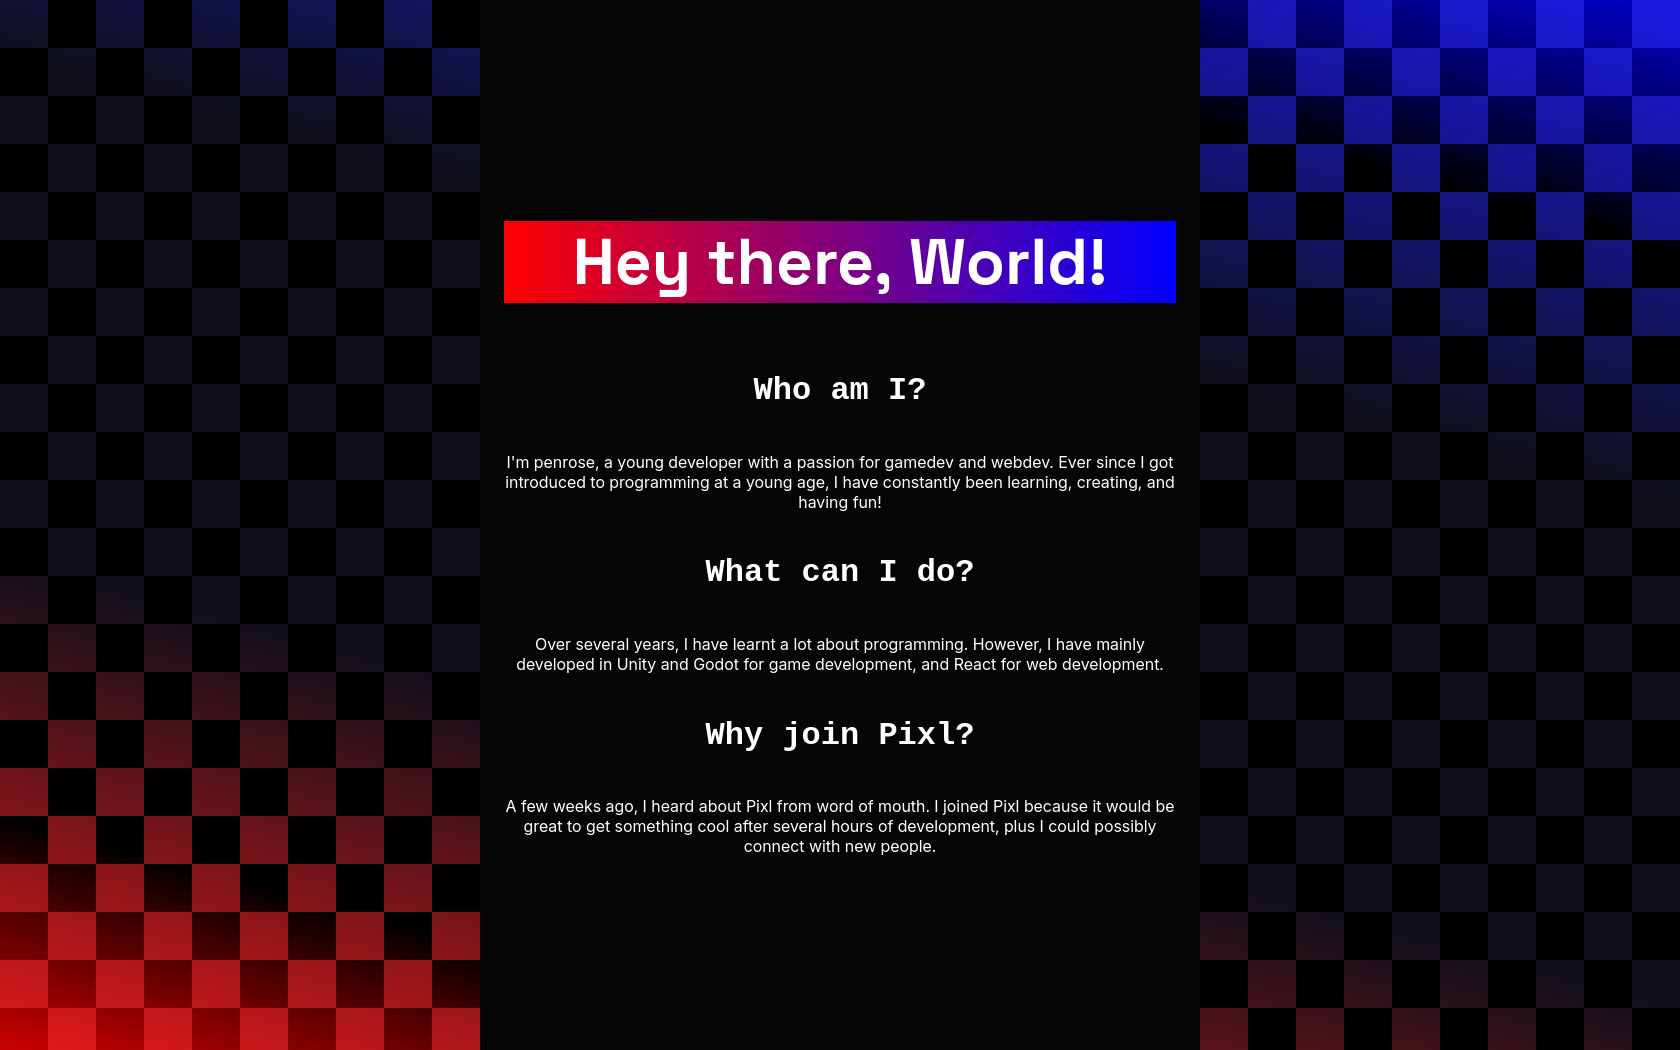
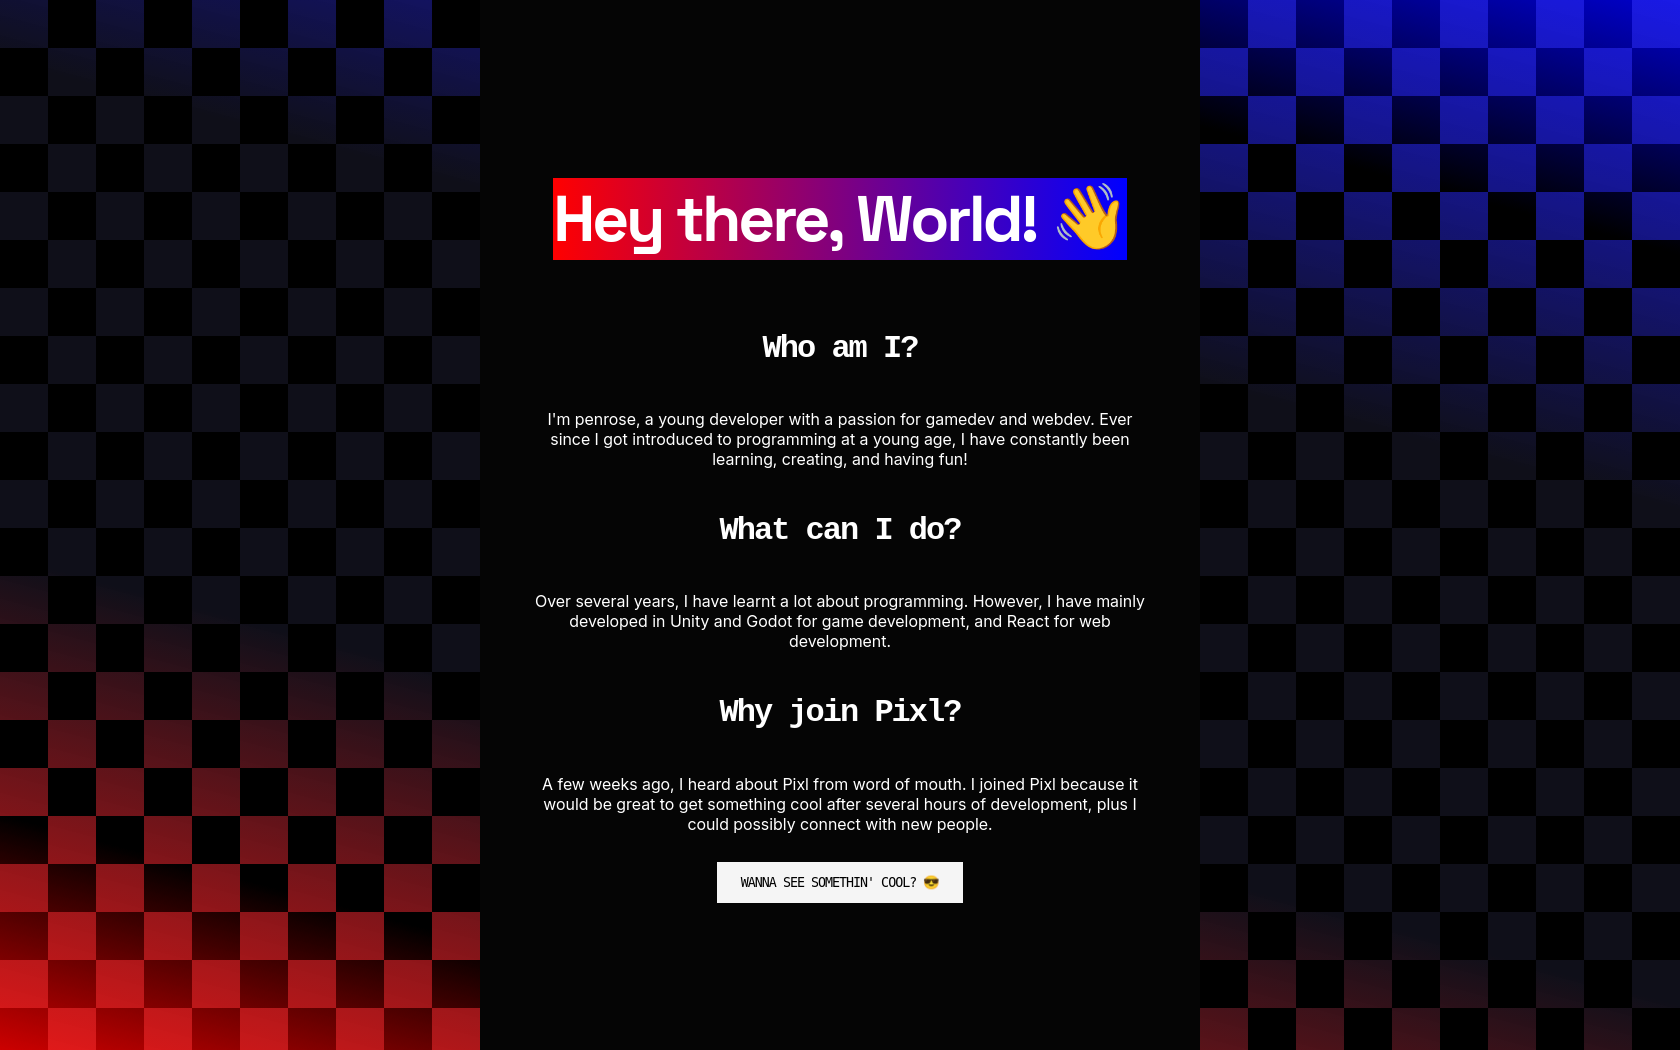
readme changes

Changed region(s): [[0.2786, 0.1524, 0.7119, 0.64], [0.3095, 0.6705, 0.7119, 0.8838]]

diff --git a/README.md b/README.md
@@ -1,2 +1,13 @@
 # Simple-Website
 Basic website written in Vanilla HTML and CSS
+
+![Thumbnail](thumbnail.png)
+
+## Features
+- Basic informative text layout
+- Cool checkerboard and gradient background
+- Alternative page that provides user choice
+- Stores user disappointment in local storage
+- Sets homepage button based on user disappointment
+
+Made in Vanilla HTML, CSS, and Javascript
